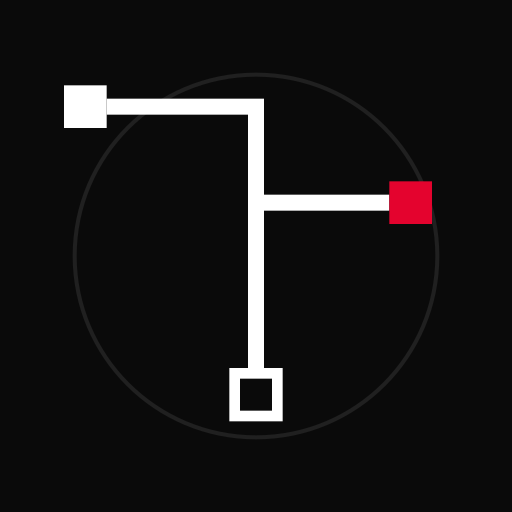
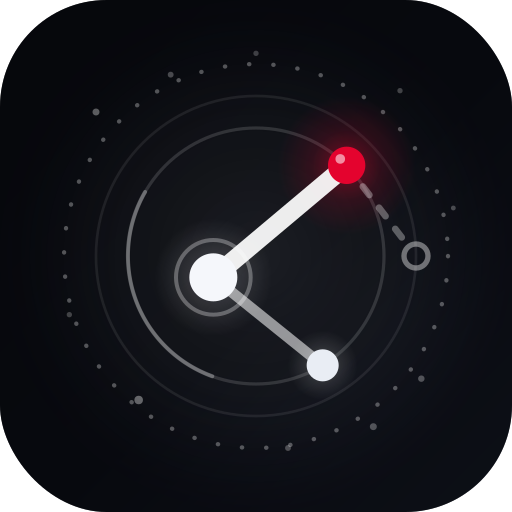
图标定稿：glm-5.3 推理版设计（深空星环）
过程中踩到的两个真问题：
1. 第一版用的是 qwen-plus-character（角色扮演模型），且我给的约束卡太死
   （禁渐变/禁发光/元素<=12/线宽>=6）→ 出来是几何符号不是图标，被否
2. glm-5.3 是推理模型，思考要 23000+ 字（约 150s），
   之前 max_tokens=12000 全被 reasoning_content 吃掉，正文只剩一个 '<'

最终方案（glm-5.3，流式，无 token 上限）：
- 深空对角渐变底 #08090D → #171A24 + rx=40 圆角方形
- 中心发光主线节点，向右上/右下分叉
- 红色 #E4032E 发光节点 = 脚本分支
- 空心小圆 = 还没长完的支线
- 多层同心轨道 + 点阵星尘 + 暗角
- 48px 下结构仍清晰

产物：web/icon.svg（矢量，3398 字符）+ icon-512.png
     + app/icon/ic_launcher_{48..512}.png（cairosvg 矢量渲染后 Lanczos 缩放）
     + Web 首界面内联（gradient id 加 hi- 前缀防冲突）
过程图：docs/icon-glm-hero.png

diff --git a/web/index.html b/web/index.html
@@ -191,13 +191,70 @@ button{font:inherit;color:inherit;background:none;border:none;cursor:pointer}
     <div id="homeOrbit"></div>
     <div id="homeCore"></div>
     <div id="homeIcon"><svg width="46" height="46" viewBox="0 0 192 192" aria-label="Galatea">
-        <circle cx="96" cy="96" r="68" fill="none" stroke="#fff" stroke-opacity=".09" stroke-width="1.5"/>
-        <path d="M40,40 H96 V140" fill="none" stroke="#fff" stroke-width="6"/>
-        <path d="M96,76 H146" fill="none" stroke="#fff" stroke-width="6"/>
-        <rect x="24" y="32" width="16" height="16" fill="#fff"/>
-        <rect x="146" y="68" width="16" height="16" fill="#E4032E"/>
-        <rect x="88" y="140" width="16" height="16" fill="none" stroke="#fff" stroke-width="4"/>
-      </svg></div>
+  <defs>
+    <linearGradient id="hi-bg" x1="0" y1="0" x2="1" y2="1">
+      <stop offset="0" stop-color="#08090D"/>
+      <stop offset="0.55" stop-color="#0B0D13"/>
+      <stop offset="1" stop-color="#171A24"/>
+    </linearGradient>
+    <radialGradient id="hi-soft">
+      <stop offset="0" stop-color="#FFFFFF" stop-opacity="0.07"/>
+      <stop offset="0.45" stop-color="#FFFFFF" stop-opacity="0.03"/>
+      <stop offset="1" stop-color="#FFFFFF" stop-opacity="0"/>
+    </radialGradient>
+    <radialGradient id="hi-vig">
+      <stop offset="0.55" stop-color="#04050A" stop-opacity="0"/>
+      <stop offset="1" stop-color="#04050A" stop-opacity="0.5"/>
+    </radialGradient>
+    <radialGradient id="hi-glowR">
+      <stop offset="0" stop-color="#E4032E" stop-opacity="0.45"/>
+      <stop offset="0.5" stop-color="#E4032E" stop-opacity="0.15"/>
+      <stop offset="1" stop-color="#E4032E" stop-opacity="0"/>
+    </radialGradient>
+    <radialGradient id="hi-glowW">
+      <stop offset="0" stop-color="#FFFFFF" stop-opacity="0.2"/>
+      <stop offset="1" stop-color="#FFFFFF" stop-opacity="0"/>
+    </radialGradient>
+  </defs>
+
+  <rect width="192" height="192" rx="40" fill="url(#hi-bg)"/>
+  <circle cx="96" cy="96" r="88" fill="url(#hi-soft)"/>
+
+  <g fill="#FFFFFF">
+    <circle cx="36" cy="42" r="1.3" opacity="0.5"/>
+    <circle cx="64" cy="28" r="1.1" opacity="0.35"/>
+    <circle cx="96" cy="20" r="1" opacity="0.3"/>
+    <circle cx="150" cy="34" r="1" opacity="0.35"/>
+    <circle cx="170" cy="78" r="0.9" opacity="0.35"/>
+    <circle cx="158" cy="142" r="1.2" opacity="0.4"/>
+    <circle cx="140" cy="160" r="1.3" opacity="0.4"/>
+    <circle cx="108" cy="168" r="1.1" opacity="0.35"/>
+    <circle cx="26" cy="118" r="1" opacity="0.3"/>
+    <circle cx="52" cy="150" r="1.6" opacity="0.45"/>
+  </g>
+
+  <rect width="192" height="192" rx="40" fill="url(#hi-vig)"/>
+
+  <circle cx="96" cy="96" r="72" fill="none" stroke="#FFFFFF" stroke-opacity="0.3" stroke-width="1.6" stroke-dasharray="0.1 9" stroke-linecap="round"/>
+  <circle cx="96" cy="96" r="60" fill="none" stroke="#FFFFFF" stroke-opacity="0.08" stroke-width="1"/>
+  <circle cx="96" cy="96" r="48" fill="none" stroke="#FFFFFF" stroke-opacity="0.14" stroke-width="1.2"/>
+  <path d="M54.4 72 A48 48 0 0 0 79.6 141.1" fill="none" stroke="#FFFFFF" stroke-opacity="0.3" stroke-width="1.5" stroke-linecap="round"/>
+
+  <circle cx="80" cy="104" r="22" fill="url(#hi-glowW)"/>
+  <circle cx="130" cy="62" r="26" fill="url(#hi-glowR)"/>
+  <circle cx="121" cy="137" r="13" fill="url(#hi-glowW)"/>
+
+  <path d="M80 104 L130 62" stroke="#FFFFFF" stroke-opacity="0.92" stroke-width="7" stroke-linecap="round" fill="none"/>
+  <path d="M80 104 L121 137" stroke="#FFFFFF" stroke-opacity="0.55" stroke-width="4" stroke-linecap="round" fill="none"/>
+  <path d="M130 62 L151.4 90" stroke="#FFFFFF" stroke-opacity="0.32" stroke-width="2.5" stroke-linecap="round" stroke-dasharray="4 6" fill="none"/>
+
+  <circle cx="80" cy="104" r="14" fill="none" stroke="#FFFFFF" stroke-opacity="0.3" stroke-width="1.5"/>
+  <circle cx="80" cy="104" r="9" fill="#F5F7FB"/>
+  <circle cx="130" cy="62" r="7" fill="#E4032E"/>
+  <circle cx="127.6" cy="59.6" r="1.8" fill="#FFFFFF" opacity="0.55"/>
+  <circle cx="121" cy="137" r="6" fill="#E9EDF4"/>
+  <circle cx="156" cy="96" r="4.5" fill="none" stroke="#FFFFFF" stroke-opacity="0.4" stroke-width="2"/>
+</svg></div>
     <div id="homeTitle"></div>
     <div id="homeSub">思维导图式 GALGAME 引擎</div>
     <div id="homeDesc">剧情是一张图 · 连线即分支 · 一键打包成游戏<br><span style="color:#6b7590">Rust 核心 + Flutter 编辑器 · Web 先行版</span></div>
